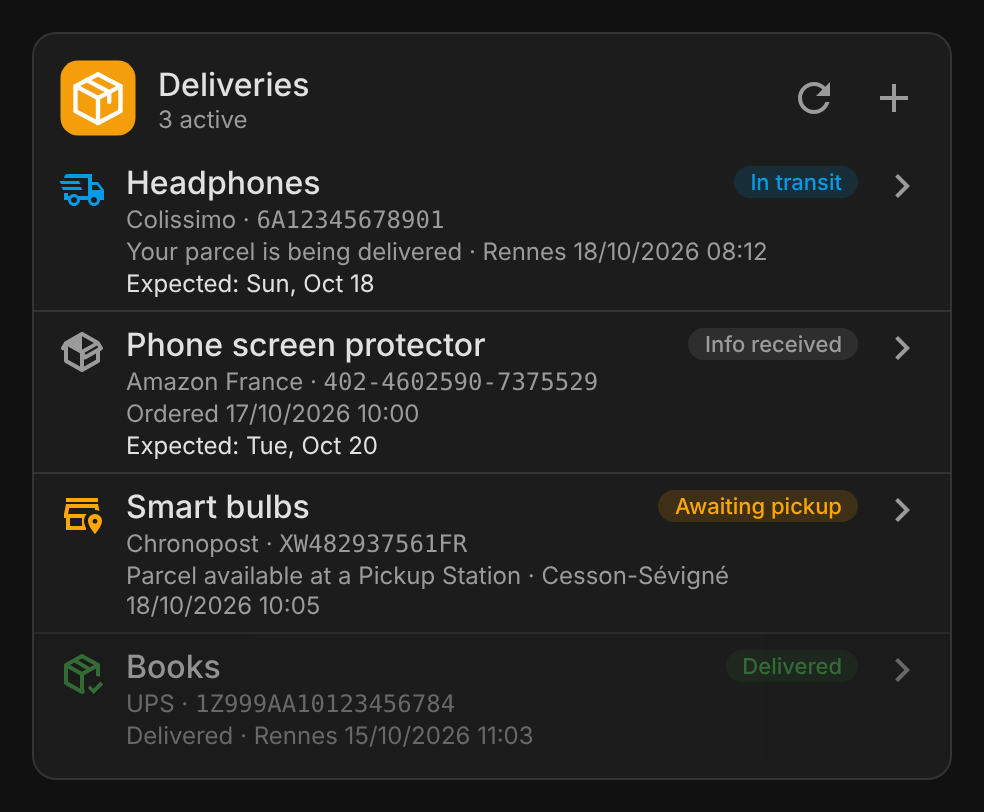
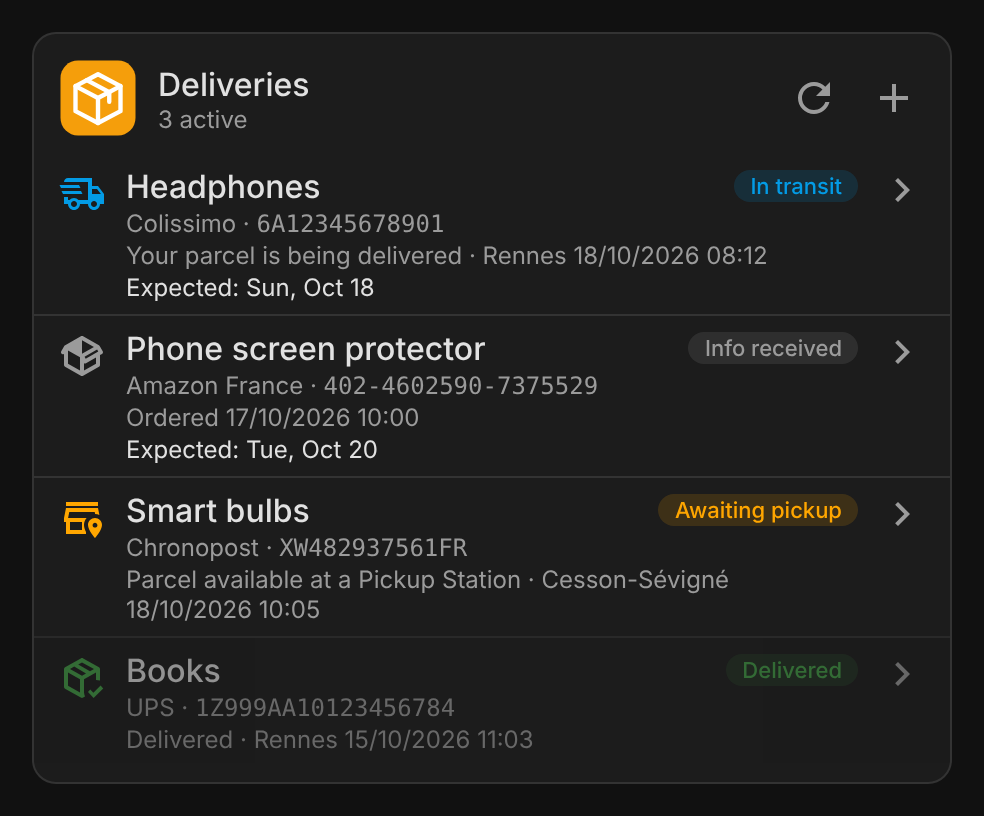
Neutral and tinted add form buttons, 8 px under the header
Cancel uses the neutral tile colour and Add is tinted with the primary colour instead
of the outlined / filled buttons; the header keeps 8 px to the first delivery.

Claude-Session: https://claude.ai/code/session_01NW8HrjdUvTF3zwsaKKxQNw

diff --git a/custom_components/parcel/frontend/parcel-card.js b/custom_components/parcel/frontend/parcel-card.js
@@ -472,7 +472,7 @@ class ParcelCard extends HTMLElement {
     return [
       ':host { display: block; }',
       'ha-card { padding: 0 0 8px; overflow: hidden; }',
-      '.header { display: flex; align-items: center; justify-content: space-between; gap: 10px; padding: 12px 8px 6px 12px; min-height: 36px; }',
+      '.header { display: flex; align-items: center; justify-content: space-between; gap: 10px; padding: 12px 8px 8px 12px; min-height: 36px; }',
       '.title { flex: 1; min-width: 0; display: flex; align-items: center; gap: 10px; }',
       '.logo { width: 40px; height: 40px; flex: none; object-fit: contain; }',
       '.titles { min-width: 0; }',
@@ -511,8 +511,10 @@ class ParcelCard extends HTMLElement {
       '.msg.error { color: var(--error-color, #db4437); }',
       '.msg.ok { color: var(--success-color, #43a047); }',
       '.actions { display: flex; justify-content: flex-end; gap: 8px; }',
-      '.actions button { font: inherit; padding: 6px 14px; border-radius: 10px; border: 1px solid var(--primary-color); cursor: pointer; background: none; color: var(--primary-color); }',
-      '.actions .submit { background: var(--primary-color); color: var(--text-primary-color, #fff); }',
+      '.actions button { font: inherit; padding: 6px 14px; border-radius: 10px; border: none; cursor: pointer;' +
+        ' background: var(--secondary-background-color, rgba(127,127,127,.12)); color: var(--primary-text-color); }',
+      '.actions .submit { background: color-mix(in srgb, var(--primary-color) 16%, transparent); color: var(--primary-color); }',
+      '.actions .submit:hover:not(:disabled) { background: color-mix(in srgb, var(--primary-color) 24%, transparent); }',
       '.actions button:disabled { opacity: 0.6; cursor: default; }',
     ].join('\n');
   }

diff --git a/CHANGELOG.md b/CHANGELOG.md
@@ -4,6 +4,8 @@
 
 ### Changes
 - Card header: the Parcel icon is 40 px, the same header box as the other ha-* cards (was 36 px).
+- Card: the add form buttons are no longer outlined or filled: Cancel uses the neutral tile colour and Add is tinted with the primary colour.
+- Card header: 8 px between the header and the first delivery (was 6 px).
 
 ## 0.5.1
 
